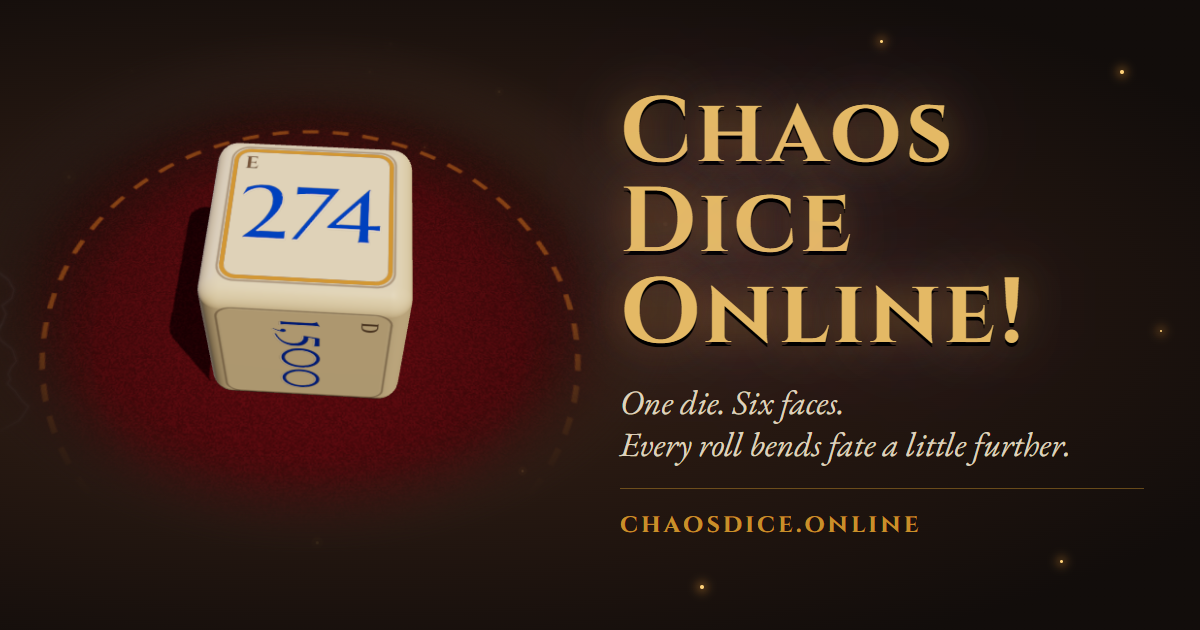
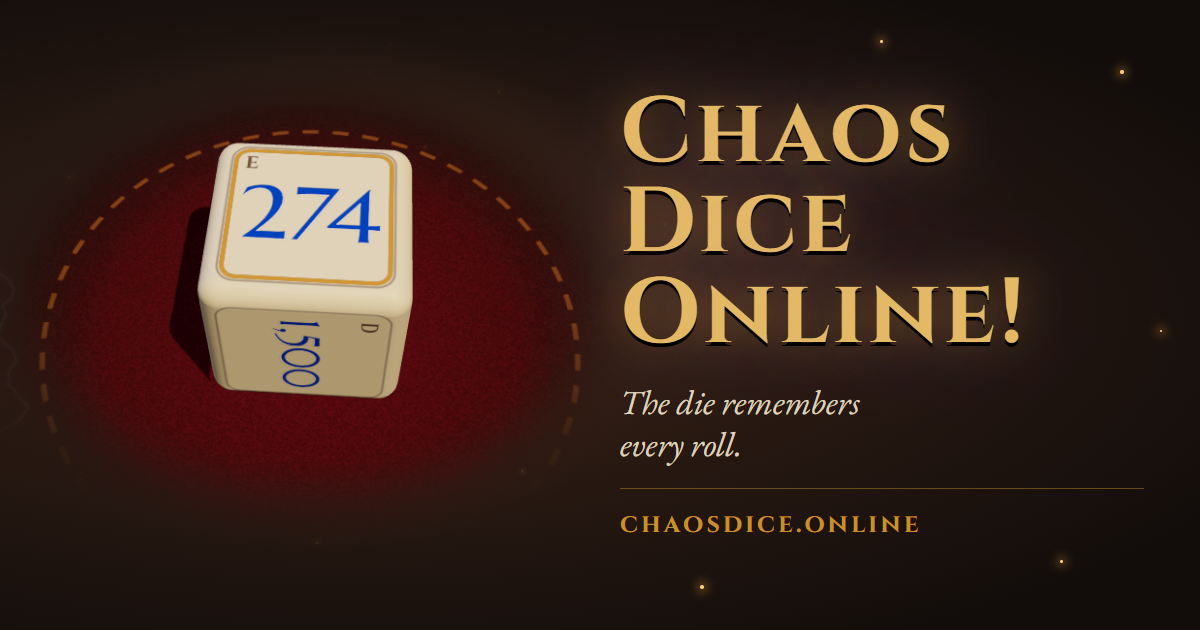
Rewrite user-facing copy in a plainer, more human voice
Landing, dialogs, game screen, errors, search/social metadata, manifest and
the share image now say plainly what happens ("the face you roll goes up by
1, the opposite face goes down") instead of abstract taglines. "Reset" is
now "Start over" everywhere it appears.

Changed region(s): [[0.4933, 0.6937, 0.8942, 0.754], [0.4933, 0.6032, 0.7092, 0.6635]]

diff --git a/index.html b/index.html
@@ -7,10 +7,10 @@
     <meta name="color-scheme" content="dark" />
 
     <!-- Primary SEO -->
-    <title>Chaos Dice Online! – A Free D6 That Drifts Into Chaos</title>
+    <title>Chaos Dice Online! – The D6 That Changes With Every Roll</title>
     <meta
       name="description"
-      content="Roll a free online D6 for D&amp;D and tabletop RPGs where every roll changes the die. The face you roll gains 1, its opposite loses 1, and the numbers drift into chaos."
+      content="A free online D6 for D&amp;D and other tabletop RPGs. The face you roll goes up by 1 and the opposite face goes down, so the longer you play, the wilder it gets."
     />
     <link rel="canonical" href="https://chaosdice.online/" />
     <meta name="robots" content="index, follow, max-image-preview:large" />
@@ -20,10 +20,10 @@
     <meta property="og:type" content="website" />
     <meta property="og:site_name" content="Chaos Dice Online!" />
     <meta property="og:url" content="https://chaosdice.online/" />
-    <meta property="og:title" content="Chaos Dice Online! – A Free D6 That Drifts Into Chaos" />
+    <meta property="og:title" content="Chaos Dice Online! – The D6 That Changes With Every Roll" />
     <meta
       property="og:description"
-      content="One die. Six faces. Every roll bends fate a little further. A free, seeded D6 for D&amp;D and tabletop RPGs."
+      content="A free D6 for D&amp;D that remembers every roll. The face you roll goes up, the opposite face goes down, and things get weird fast."
     />
     <meta property="og:image" content="https://chaosdice.online/og-image.png" />
     <meta property="og:image:width" content="1200" />
@@ -31,10 +31,10 @@
     <meta property="og:image:alt" content="An ivory die on a crimson felt table beside the words Chaos Dice Online!" />
     <meta property="og:locale" content="en_US" />
     <meta name="twitter:card" content="summary_large_image" />
-    <meta name="twitter:title" content="Chaos Dice Online! – A Free D6 That Drifts Into Chaos" />
+    <meta name="twitter:title" content="Chaos Dice Online! – The D6 That Changes With Every Roll" />
     <meta
       name="twitter:description"
-      content="One die. Six faces. Every roll bends fate a little further. A free, seeded D6 for D&amp;D and tabletop RPGs."
+      content="A free D6 for D&amp;D that remembers every roll. The face you roll goes up, the opposite face goes down, and things get weird fast."
     />
     <meta name="twitter:image" content="https://chaosdice.online/og-image.png" />
 
@@ -51,7 +51,7 @@
         "@type": "WebApplication",
         "name": "Chaos Dice Online!",
         "url": "https://chaosdice.online/",
-        "description": "A free online D6 for D&D and tabletop RPGs where every roll changes the die: the rolled face gains 1 and its opposite loses 1, so the numbers drift into chaos.",
+        "description": "A free online D6 for D&D and other tabletop RPGs. The face you roll goes up by 1 and the opposite face goes down, so the longer you play, the wilder it gets.",
         "applicationCategory": "GameApplication",
         "genre": "Tabletop RPG dice roller",
         "operatingSystem": "Any",
@@ -76,13 +76,13 @@
     <section class="landing" id="landing">
       <div class="landing-inner">
         <h1 class="landing-title"><span>Chaos Dice</span> <span>Online!</span></h1>
-        <p class="landing-tag">One die. Six faces. Every roll bends fate a little further.</p>
+        <p class="landing-tag">The die remembers every roll.</p>
         <p class="landing-desc">
-          A free online D6 for D&amp;D and tabletop RPGs. Every face starts at zero. Each roll, the face
-          you roll gains one and its opposite loses one, until the numbers run wild. Your character's
-          name seeds your fate.
+          Every face starts at zero. Whatever you roll goes up by one, and the face on the other side
+          goes down by one. Keep rolling and the numbers get weird. It's free, made for D&amp;D or any
+          tabletop game, and your character's name decides how it all plays out.
         </p>
-        <noscript><p class="landing-noscript">Chaos Dice Online! needs JavaScript enabled to roll the die.</p></noscript>
+        <noscript><p class="landing-noscript">Turn on JavaScript to roll the die.</p></noscript>
         <div class="landing-actions">
           <button class="btn primary play" id="playBtn" type="button">Play</button>
           <button class="btn ghost how" type="button" data-info>
@@ -92,7 +92,7 @@
         </div>
         <a class="repo-link" href="https://github.com/drewdotpro/chaosdice.online" target="_blank" rel="noopener">
           <svg viewBox="0 0 16 16" aria-hidden="true"><path fill="currentColor" d="M8 0C3.58 0 0 3.58 0 8c0 3.54 2.29 6.53 5.47 7.59.4.07.55-.17.55-.38 0-.19-.01-.82-.01-1.49-2.01.37-2.53-.49-2.69-.94-.09-.23-.48-.94-.82-1.13-.28-.15-.68-.52-.01-.53.63-.01 1.08.58 1.23.82.72 1.21 1.87.87 2.33.66.07-.52.28-.87.51-1.07-1.78-.2-3.64-.89-3.64-3.95 0-.87.31-1.59.82-2.15-.08-.2-.36-1.02.08-2.12 0 0 .67-.21 2.2.82.64-.18 1.32-.27 2-.27.68 0 1.36.09 2 .27 1.53-1.04 2.2-.82 2.2-.82.44 1.1.16 1.92.08 2.12.51.56.82 1.27.82 2.15 0 3.07-1.87 3.75-3.65 3.95.29.25.54.73.54 1.48 0 1.07-.01 1.93-.01 2.2 0 .21.15.46.55.38A8.013 8.013 0 0 0 16 8c0-4.42-3.58-8-8-8z"/></svg>
-          Free and open source on GitHub
+          Open source on GitHub
         </a>
       </div>
     </section>
@@ -118,7 +118,7 @@
             <span class="label">Rolls</span>
             <span class="value" id="rollCount">0</span>
           </div>
-          <button class="btn ghost small" id="resetBtn" type="button">Reset</button>
+          <button class="btn ghost small" id="resetBtn" type="button">Start over</button>
         </div>
       </header>
 
@@ -131,19 +131,19 @@
             <div class="result-value" id="resultValue">&nbsp;</div>
           </div>
           <button class="btn primary roll" id="rollBtn" type="button">Roll</button>
-          <p class="hint">Tap the die, press the button, or hit <kbd>Space</kbd>.</p>
+          <p class="hint">Click the die or press <kbd>Space</kbd> to roll.</p>
         </section>
 
         <aside class="panel">
           <section class="card">
             <h2>Faces</h2>
             <div class="hud" id="hud"></div>
-            <p class="note">After each roll, the face shown gains 1 and its opposite loses 1.</p>
+            <p class="note">After each roll, the face that landed goes up by 1 and the opposite face goes down by 1.</p>
           </section>
           <section class="card history-card">
             <h2>History</h2>
             <ol class="history" id="history"></ol>
-            <p class="empty" id="historyEmpty">No rolls yet.</p>
+            <p class="empty" id="historyEmpty">Nothing rolled yet.</p>
           </section>
         </aside>
       </main>
@@ -151,61 +151,62 @@
 
     <dialog class="modal" id="startModal">
       <form method="dialog" id="startForm" novalidate>
-        <h2>Who rolls the bones?</h2>
+        <h2>Who's rolling?</h2>
         <p class="sub">
-          Your character's name is your seed. Same name, same fate. Coming back without a save?
-          Enter your last roll count to pick up where you left off.
+          Your character's name sets the order of every roll, so the same name always gets the same
+          results. On a new device? Enter your roll count and you'll pick up exactly where you left off.
         </p>
         <label>
           <span>Character name</span>
           <input id="nameInput" name="name" autocomplete="off" maxlength="80" required placeholder="e.g. Thalia Ironwood" />
         </label>
         <label>
-          <span>Roll count <em>(leave blank for a new player)</em></span>
+          <span>Roll count <em>(leave blank if you're new)</em></span>
           <input id="rollsInput" name="rolls" type="number" inputmode="numeric" min="0" step="1" value="" />
         </label>
         <p class="error" id="formError" role="alert"></p>
         <div class="actions">
           <button class="btn ghost" type="button" id="startBack">Back</button>
-          <button class="btn primary" type="submit">Begin</button>
+          <button class="btn primary" type="submit">Start rolling</button>
         </div>
       </form>
     </dialog>
 
     <dialog class="modal info-modal" id="infoModal" aria-labelledby="infoTitle">
       <form method="dialog">
-        <h2 id="infoTitle">How Chaos Dice Online! works</h2>
+        <h2 id="infoTitle">How it works</h2>
         <div class="info-body">
           <p>
-            This is a six-sided die with faces <strong>A–F</strong>, and every face starts at
-            <strong>0</strong>. The numbers don't stay put.
+            It's a six-sided die with faces labelled <strong>A</strong> to <strong>F</strong>. Every face
+            starts at <strong>0</strong>, but they don't stay there.
           </p>
           <ol>
-            <li><strong>Roll.</strong> The die lands with one face on top. That face's number is your result.</li>
+            <li><strong>Roll.</strong> Whichever face lands on top, its number is your result.</li>
             <li>
-              <strong>Then the chaos.</strong> The face you rolled gains <strong>+1</strong>, and the face
-              opposite it loses <strong>1</strong>. Opposites are A↔F, B↔E and C↔D.
+              <strong>The die changes.</strong> That face goes up by <strong>1</strong> and the face opposite
+              it goes down by <strong>1</strong>. The opposite pairs are A and F, B and E, and C and D.
             </li>
-            <li><strong>Repeat.</strong> Over many rolls, faces drift far above or below zero.</li>
+            <li><strong>Keep rolling.</strong> Over time some faces climb high and others sink below zero.</li>
           </ol>
           <p>
-            <span class="swatch pos">Blue</span> numbers are positive, and bluer means higher.
-            <span class="swatch neg">Red</span> numbers are negative, and redder means lower.
+            <span class="swatch pos">Blue</span> numbers are positive: the bluer, the higher.
+            <span class="swatch neg">Red</span> numbers are negative: the redder, the lower.
             <span class="swatch zero">Black</span> is zero.
           </p>
-          <h3>Your fate is sealed</h3>
+          <h3>Same name, same rolls</h3>
           <p>
-            Your character's name is the seed. The same name always gives the same rolls in the same
-            order. Capitals and extra spaces don't matter. Progress is saved on this device.
+            Your character's name decides every roll in advance, so the same name always gets the same
+            results in the same order. Capitals and extra spaces don't matter. Your progress saves on
+            this device.
           </p>
           <p>
-            Playing on another device, or lost your save? Enter the same name and your roll count, and
-            your die is rebuilt exactly as you left it. It runs on the honour system.
+            On a new device, or lost your save? Enter the same name and your roll count, and your die
+            comes back exactly as you left it. We trust you not to fudge the count.
           </p>
           <h3>Controls</h3>
           <p>
-            Tap the die, press <strong>Roll</strong>, or hit <kbd>Space</kbd>. The speaker button turns
-            sound on and off. <strong>Reset</strong> clears your saved character from this device.
+            Tap the die, press <strong>Roll</strong> or hit <kbd>Space</kbd>. The speaker button turns
+            sound on or off. <strong>Start over</strong> clears your character from this device.
           </p>
         </div>
         <div class="actions">
@@ -216,14 +217,14 @@
 
     <dialog class="modal" id="resetModal">
       <form method="dialog">
-        <h2>Reset?</h2>
+        <h2>Start over?</h2>
         <p class="sub">
-          This clears your saved character from this device. Write down your name and roll count
-          (<strong id="resetSummary"></strong>) if you want to resume later.
+          This removes your character from this device. To come back to it later, note down your name
+          and roll count: <strong id="resetSummary"></strong>.
         </p>
         <div class="actions">
-          <button class="btn ghost" value="cancel">Cancel</button>
-          <button class="btn danger" value="confirm">Reset</button>
+          <button class="btn ghost" value="cancel">Keep playing</button>
+          <button class="btn danger" value="confirm">Start over</button>
         </div>
       </form>
     </dialog>

diff --git a/src/main.js b/src/main.js
@@ -45,7 +45,7 @@ function createDie(container) {
     return new Die(container);
   } catch (err) {
     console.warn('3D die unavailable, using a simple fallback.', err);
-    container.innerHTML = '<p class="no-webgl">Your browser couldn’t start 3D graphics, but the dice still roll. Your results appear below.</p>';
+    container.innerHTML = '<p class="no-webgl">Your browser can’t show the 3D die, but rolling still works. Your results show up below.</p>';
     const center = () => {
       const r = container.getBoundingClientRect();
       return { x: r.left + r.width / 2, y: r.top + r.height / 2 };
@@ -338,10 +338,10 @@ els.startForm.addEventListener('submit', (e) => {
   const rollsRaw = els.rollsInput.value.trim();
   const rolls = rollsRaw === '' ? 0 : Number(rollsRaw);
   let err = '';
-  if (!name) err = 'Your character needs a name.';
+  if (!name) err = 'Give your character a name first.';
   // A number input reports '' for unparseable text (e.g. letters in Firefox), so check badInput too.
-  else if (els.rollsInput.validity.badInput || !Number.isInteger(rolls) || rolls < 0) err = 'Roll count must be a whole number, 0 or more.';
-  else if (rolls > MAX_ROLLS) err = `Roll count can't exceed ${MAX_ROLLS.toLocaleString('en-US')}.`;
+  else if (els.rollsInput.validity.badInput || !Number.isInteger(rolls) || rolls < 0) err = 'Roll count needs to be a whole number, like 0 or 42.';
+  else if (rolls > MAX_ROLLS) err = `That's more rolls than we can count. The limit is ${MAX_ROLLS.toLocaleString('en-US')}.`;
   if (err) {
     e.preventDefault();
     els.formError.textContent = err;

diff --git a/design/og-image.html b/design/og-image.html
@@ -37,7 +37,7 @@
     <div class="die"></div>
     <div class="text">
       <h1><span>Chaos Dice</span><span>Online!</span></h1>
-      <p>One die. Six faces.<br />Every roll bends fate a little further.</p>
+      <p>The die remembers<br />every roll.</p>
       <div class="url">chaosdice.online</div>
     </div>
     <i class="ember" style="left:1120px;top:70px;width:4px;height:4px"></i>
